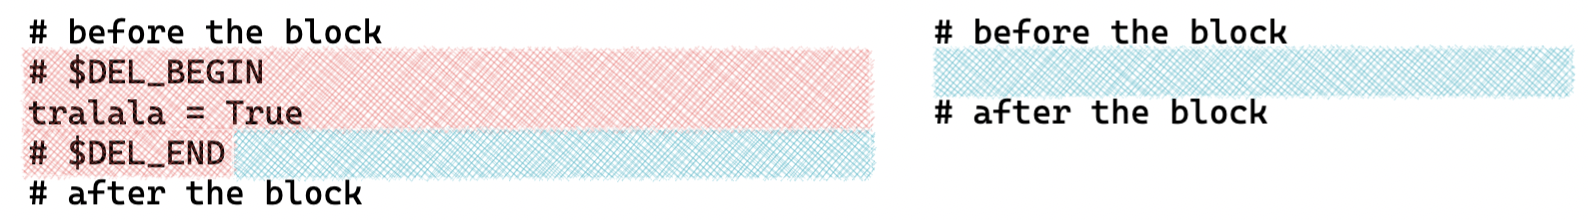
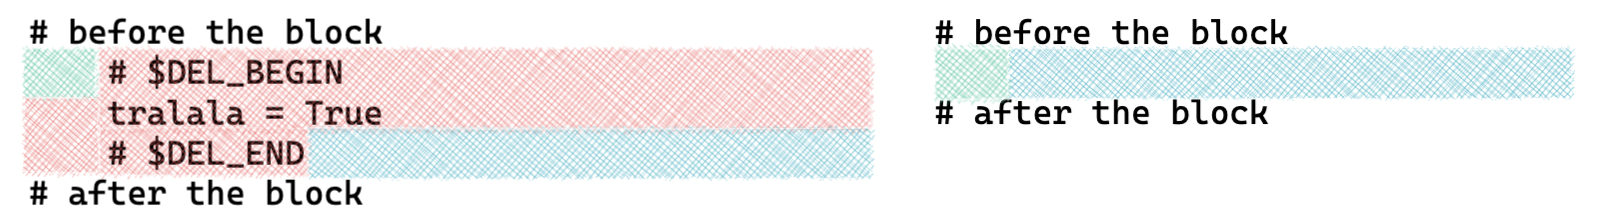
update doc images

Changed region(s): [[0.0, 0.0818, 0.5554, 0.9545], [0.5863, 0.0818, 1.0, 0.5727]]

diff --git a/README.md b/README.md
@@ -100,23 +100,23 @@ the notebook metadata can be edited using the menu `Edit > Edit Notebook Metadat
 
 `challengify` keeps indentation
 
-<img src="doc/cha_2.png" alt="cha" width="700"/>
+<img src="doc/cha.png" alt="cha" width="700"/>
 
 `delete` does not consume the block newline
 
-<img src="doc/del_2.png" alt="del" width="700"/>
+<img src="doc/del.png" alt="del" width="700"/>
 
 `erase` consumes the block newline
 
-<img src="doc/erase_2.png" alt="erase" width="700"/>
+<img src="doc/erase.png" alt="erase" width="700"/>
 
 `wipe` consumes the block newline and the following one in order to keep outer blocks evenly spaced
 
-<img src="doc/wipe_2.png" alt="wipe" width="700"/>
+<img src="doc/wipe.png" alt="wipe" width="700"/>
 
 `implode` consumes the block newline and the surrounding newlines in order to remove outer blocks spacing
 
-<img src="doc/implode_2.png" alt="implode" width="700"/>
+<img src="doc/implode.png" alt="implode" width="700"/>
 
 ## transformations rollback
 
